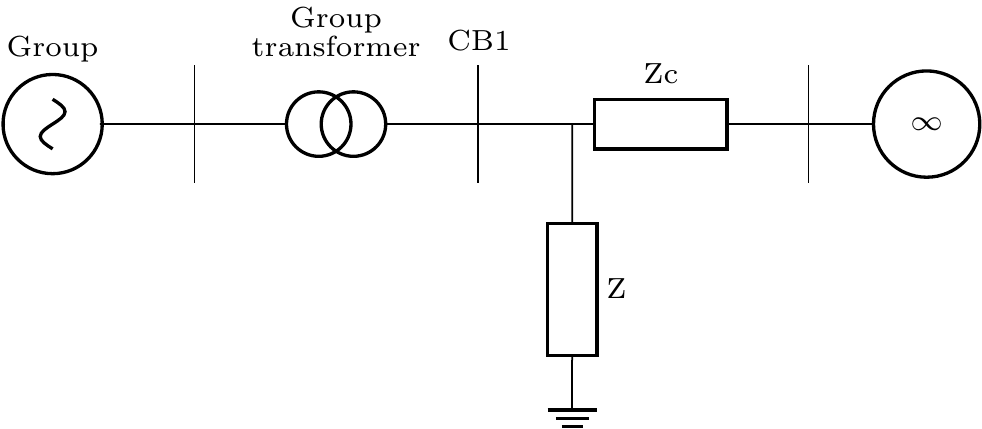
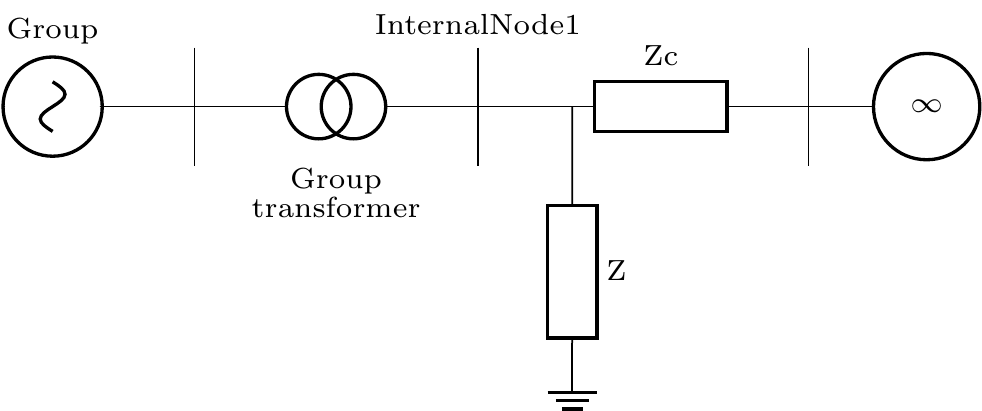
Update documentation to clarify internal connection naming for Zone 1

diff --git a/docs/manual/source/usage/inputs.rst b/docs/manual/source/usage/inputs.rst
@@ -63,6 +63,16 @@ while Zone 3 should represent the complete installation at the PDR, including
 plant-level control. For the precise definition of these zones, refer to
 PCS I16 in the RTE DTR.
 
+.. note::
+   The name *PDR* always refers to the real connection point of the complete
+   installation to RTE's grid. The connection node of the Zone 1 unit model is
+   an internal node of the aggregated plant model, named **InternalNode1** in
+   DyCoV outputs (reports, figures, and curve signal names such as
+   ``InternalNode1_BUS_Voltage``) — it corresponds to the node called *Node1*
+   in the DTR. In the DYD/PAR files the connection bus keeps its internal id
+   ``BusPDR`` for both zones, and reference-curve dictionaries for Zone 1
+   accept both namings.
+
 For information on the DYD and PAR file formats, refer to the
 `Dynawo documentation <https://dynawo.github.io/>`_.
 
@@ -311,7 +321,8 @@ Available Topologies
 
 DyCoV currently supports eight topologies to represent the producer model.
 The topology is declared in the ``Producer.ini`` file and determines how
-DyCoV connects the producer's equipment to the PDR bus internally.
+DyCoV connects the producer's equipment to the connection bus internally
+(the PDR bus — or InternalNode1 for Zone 1 of the RMS model validation).
 
 .. figure:: figs_topologies/s.png
     :width: 600px

diff --git a/docs/manual/source/usage/configuration.rst b/docs/manual/source/usage/configuration.rst
@@ -161,9 +161,12 @@ Modifying the initial conditions of a test
 To override the initial operating point of a specific test, create a section
 named ``PCS.Benchmark.OperatingCondition.Model`` and set the desired values:
 
-* ``pdr_P`` — initial active power flow at the PDR bus
-* ``pdr_Q`` — initial reactive power flow at the PDR bus
-* ``pdr_U`` — initial voltage at the PDR bus
+* ``pdr_P`` — initial active power flow at the connection bus
+* ``pdr_Q`` — initial reactive power flow at the connection bus
+* ``pdr_U`` — initial voltage at the connection bus
+
+The connection bus is the PDR bus, or InternalNode1 for Zone 1 of the RMS
+model validation (the ``pdr_`` key prefix is kept for both zones).
 
 .. code-block::
 

diff --git a/docs/design/DyCoV_architecture_map.md b/docs/design/DyCoV_architecture_map.md
@@ -64,3 +64,8 @@ working_oc_dir/outputs/  logs/ (dynawo.log)  curves/ (curves.csv)  timeLine/  co
 The Results tree (`-o` output dir: `<Results>/…/Producer/<PCS>/<benchmark>/<oc>/`) mirrors
 this layout — DyCoV copies selected files/dirs from the working dir into it, then adds its
 post-processed `curves_calculated.csv`, `curves_reference.csv` and `results.json`.
+
+Output naming (`curves/naming.py`): internals use `BusPDR_BUS_*` everywhere, but Zone 1
+outputs (saved CSVs, report/figure labels) rename the bus to `InternalNode1` — PDR is
+reserved for the real connection point (issue #275). The importer accepts both namings
+in Zone 1 reference-curve dictionaries.

diff --git a/docs/manual/source/usage/validations.rst b/docs/manual/source/usage/validations.rst
@@ -174,6 +174,11 @@ RMS model validation checks that the dynamic response of a PPM model matches
 a set of reference curves within the tolerances defined in PCS I16. It always
 runs two independent perimeters: Zone 1 (unit-level) and Zone 3 (plant-level).
 
+In Zone 1 the unit under test connects at an internal node of the aggregated
+plant model, named **InternalNode1** in DyCoV outputs (the node called *Node1*
+in the DTR). The name *PDR* is reserved for the real connection point of the
+complete installation to RTE's grid, which is the point used in Zone 3.
+
 Reference curves are always required. The producer response can come from
 Dynawo simulations or from producer-provided curves.
 

diff --git a/docs/tutorials/rms_model_validation.md b/docs/tutorials/rms_model_validation.md
@@ -57,6 +57,11 @@ Both zones must be validated as part of RMS model validation.
 Zone 1 validates the **intrinsic dynamic behavior of the generating or storage
 unit**, without any plant‑level control.
 
+The unit under test connects at an internal node of the aggregated plant model,
+named **InternalNode1** in DyCoV outputs (reports, figures and curve signal
+names) — the node called *Node1* in the DTR. The name *PDR* is reserved for the
+real connection point of the complete installation to RTE's grid (see Zone 3).
+
 Examples:
 - turbine and converter for PPM,
 - storage element and converter for BESS.